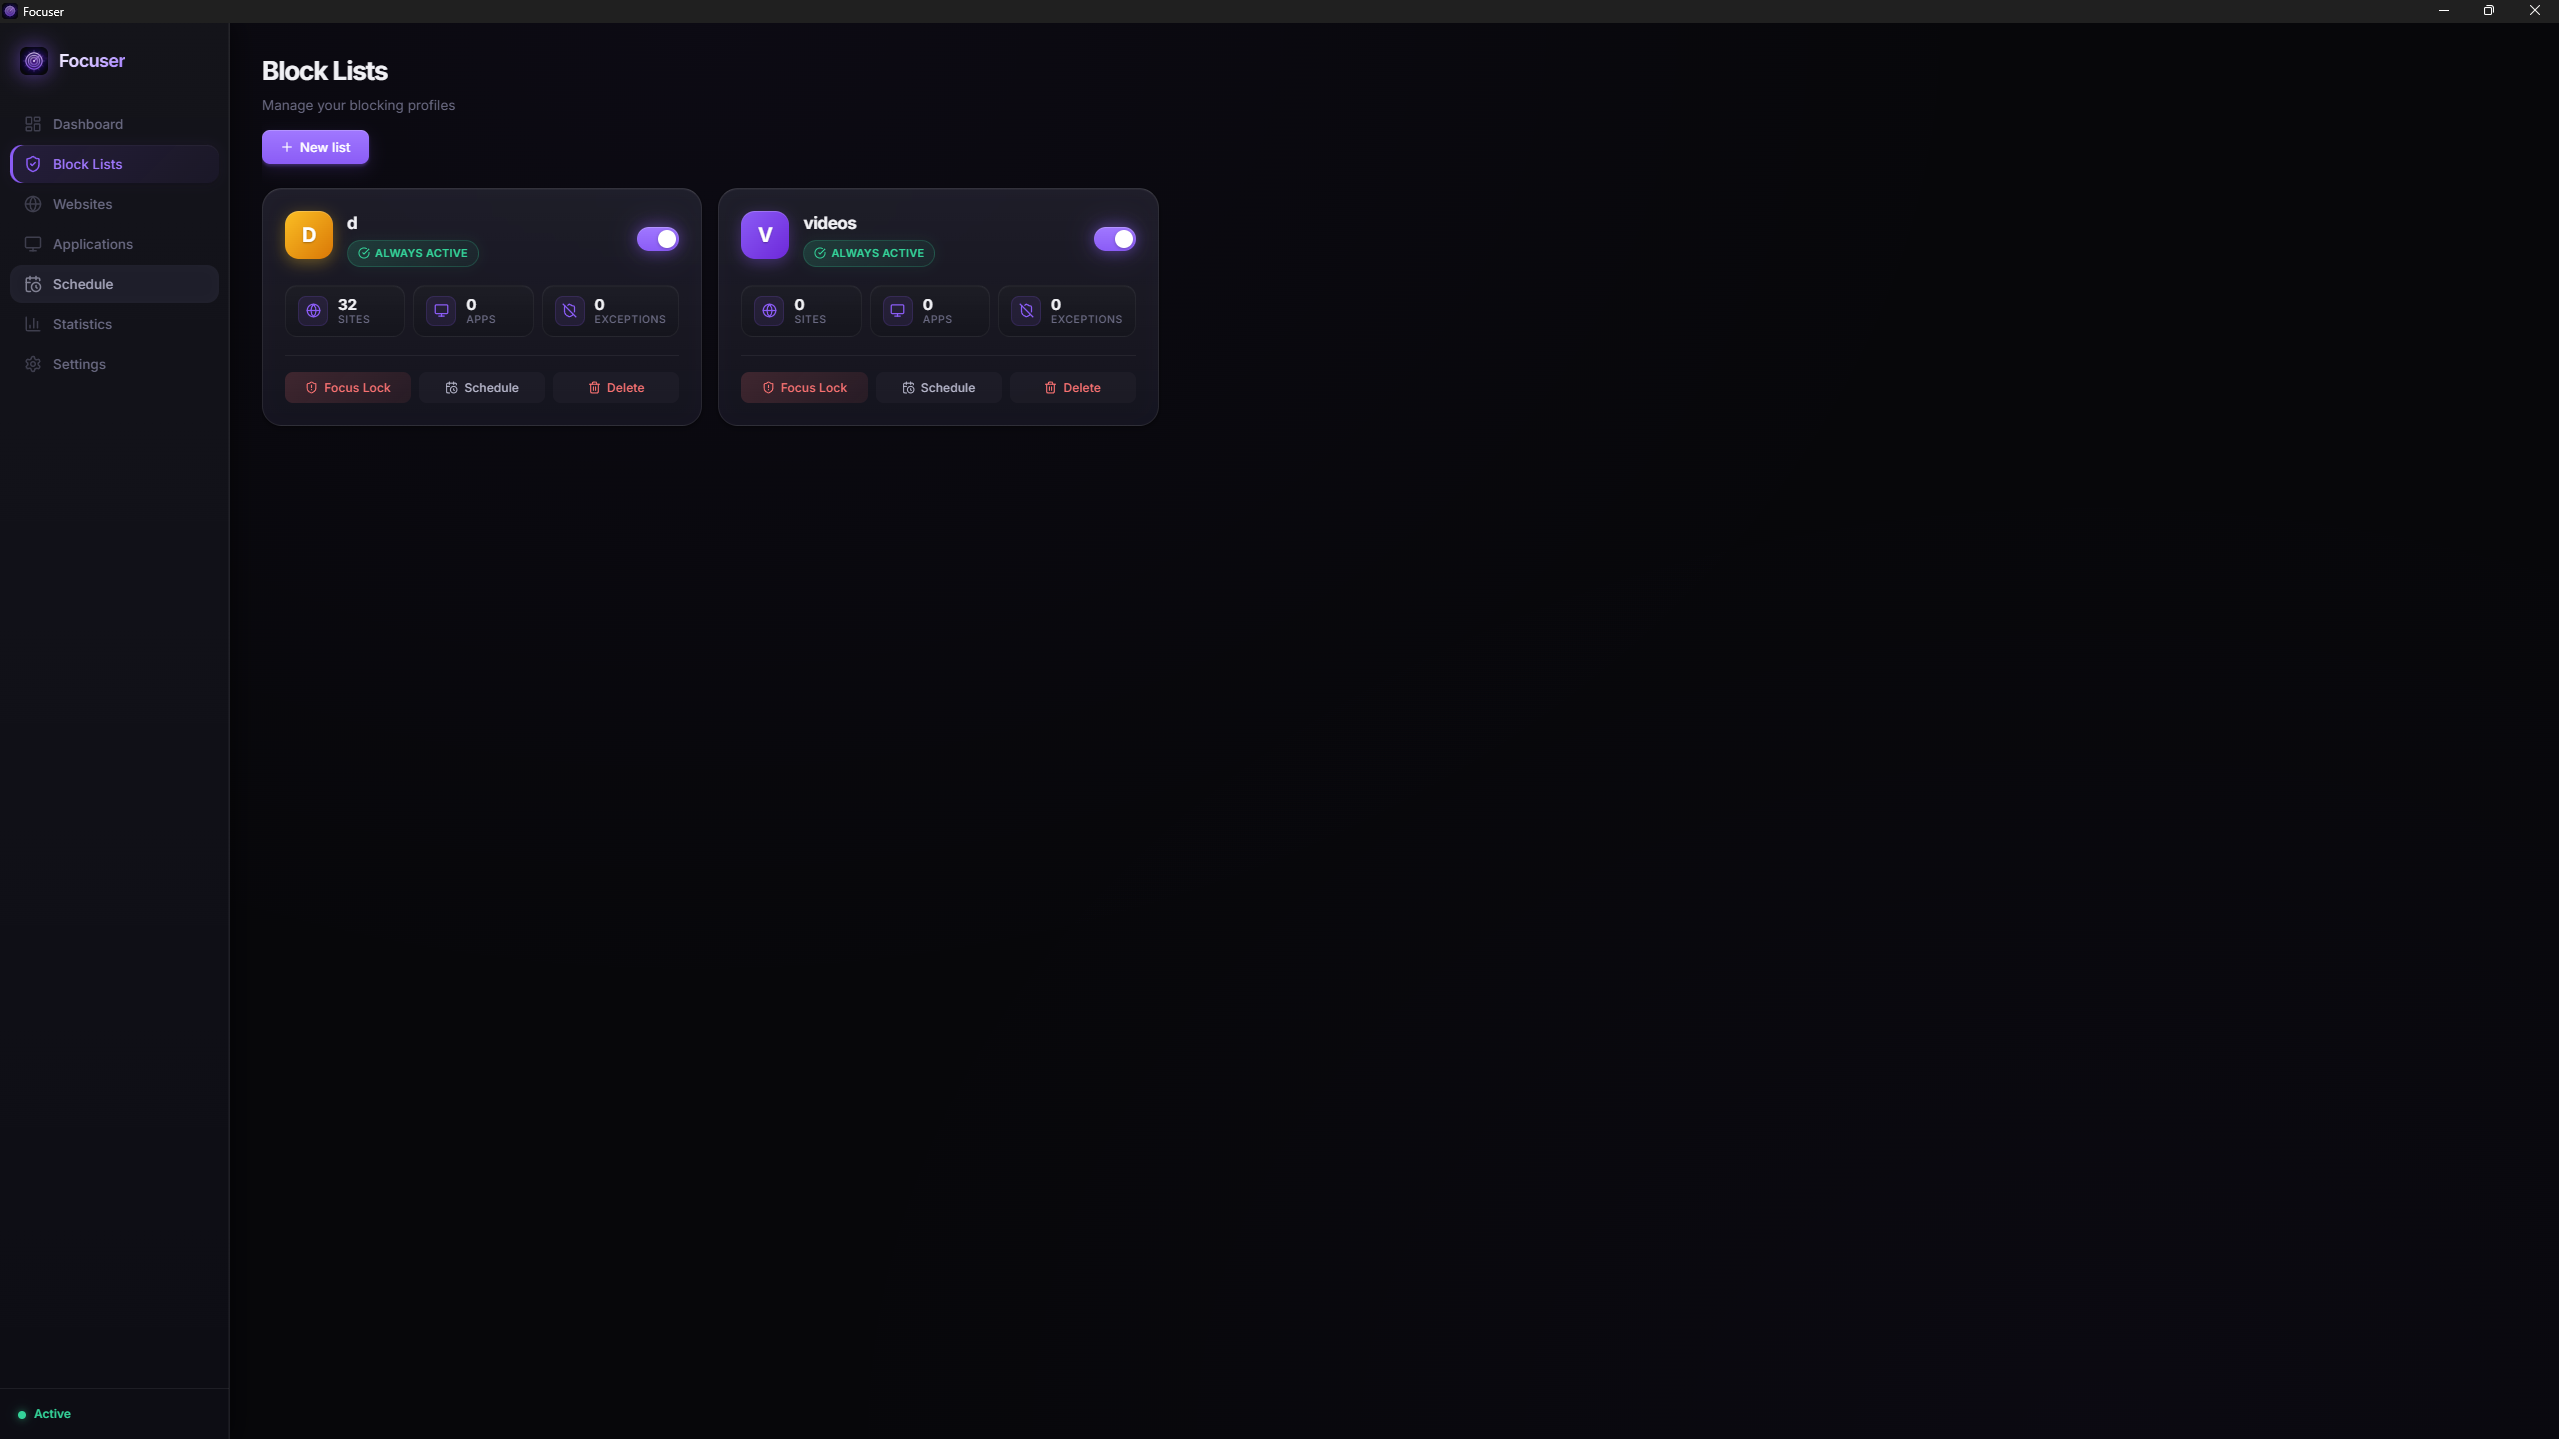
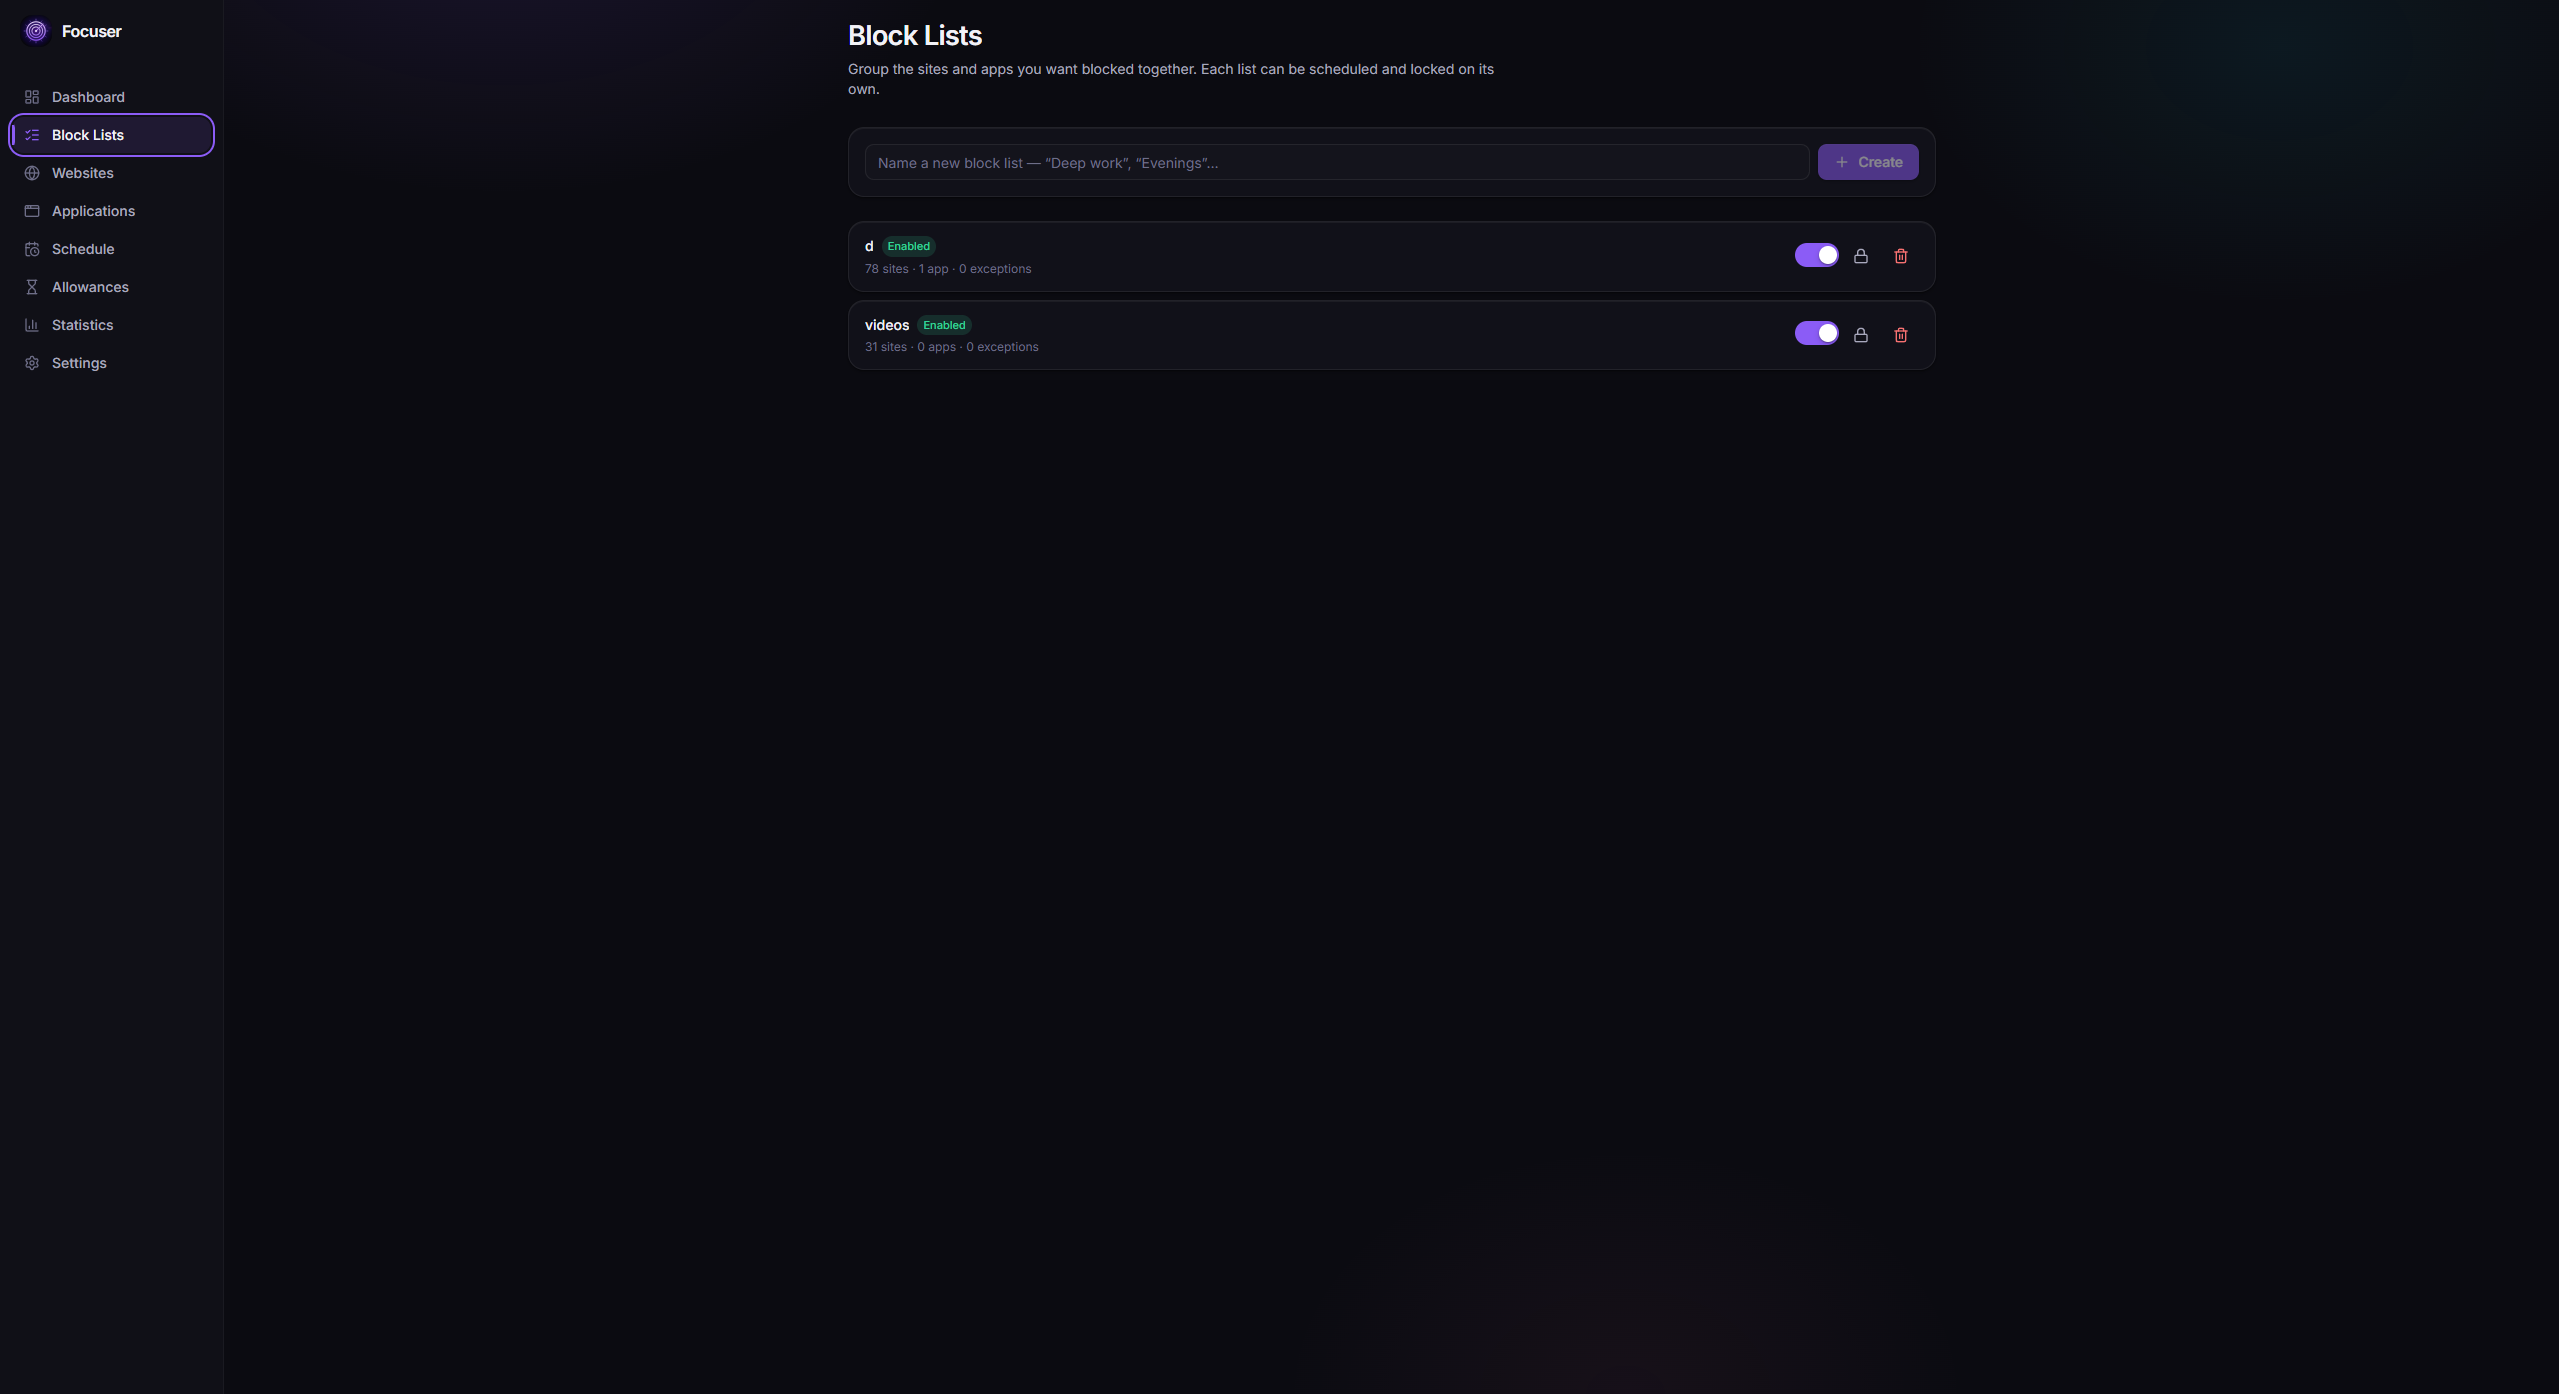
Replace the screenshots with captures of the current interface
The README still carried April captures and an apology admitting the interface
had been rebuilt since. Ten fresh ones replace them, named for what they show
rather than the timestamp the screenshot tool picked.

Two pages had never been pictured at all:

- Applications, which shows the real icon read out of each executable
- Allowances, the daily-budget alternative to an outright block

Two more are now shown in both of their states, because one capture of either
was misleading about what the page does:

- Schedule, always-on and the painted weekly grid
- Statistics, the Bars view and the Individual view

Renames worth noting: `schedule-24-7.png` became
`schedule-always-active.png` to match the label in the UI, and
`statistics.png` became `statistics-bars.png` now that there is more than
one view.

Each entry gained a sentence explaining what is being looked at, and the alt
text describes the image rather than repeating the page name.

diff --git a/README.md b/README.md
@@ -20,44 +20,64 @@ It sits quietly in your system tray, blocks the sites you told it to block, and 
 
 ## Screenshots
 
-> These are from an earlier build. The interface has since been rebuilt and looks rather different — fresh captures are on the way.
-
 <details>
-<summary><strong>Dashboard</strong> - Your blocking overview at a glance</summary>
+<summary><strong>Dashboard</strong> - What is blocked right now, and a Pomodoro timer to start a session</summary>
 <br>
-<img src="assets/screenshots/dashboard.png" alt="Dashboard" width="100%">
+<p>Four counters across the top, then the focus session: three dials for focus, short break and long break, how many cycles before the long one, and a bar showing what the whole session adds up to. Block lists can be flipped on and off without leaving the page.</p>
+<img src="assets/screenshots/dashboard.png" alt="Dashboard showing blocked attempts, a Pomodoro focus session and block list toggles" width="100%">
 </details>
 
 <details>
-<summary><strong>Block Lists</strong> - Organize blocks into groups with Focus Lock protection</summary>
+<summary><strong>Block Lists</strong> - Group sites and apps, then schedule and lock each group on its own</summary>
 <br>
-<img src="assets/screenshots/block-lists.png" alt="Block Lists" width="100%">
+<p>A list is the unit everything else hangs off. Each one has its own websites, applications, schedule and exceptions, and can be locked so you cannot casually undo it.</p>
+<img src="assets/screenshots/block-lists.png" alt="Block Lists page with two lists, each showing site and app counts" width="100%">
 </details>
 
 <details>
-<summary><strong>Websites</strong> - Domains, keywords, wildcards, pre-made lists, bulk import</summary>
+<summary><strong>Websites</strong> - Domains, keywords, wildcards, URL paths, or the whole internet</summary>
 <br>
-<img src="assets/screenshots/websites.png" alt="Websites" width="100%">
+<p>Pick the kind of rule and the hint underneath tells you what it will actually match. Starter lists sit right next to the add box: choose a category, hit Import, and the sites that are already there are skipped rather than duplicated.</p>
+<img src="assets/screenshots/websites.png" alt="Websites page with the rule-kind picker, the starter list importer and a list of blocked domains" width="100%">
 </details>
 
 <details>
-<summary><strong>Schedule</strong> - 24/7 blocking or a weekly time grid, your call</summary>
+<summary><strong>Applications</strong> - Block programs by executable, full path, or window title</summary>
 <br>
-<img src="assets/screenshots/schedule-24-7.png" alt="Schedule - Always Active" width="100%">
+<p>Blocked programs show their real icon, read out of the executable on your own machine. Nothing is fetched from the internet to do it.</p>
+<img src="assets/screenshots/applications.png" alt="Applications page showing a blocked executable with its real icon" width="100%">
+</details>
+
+<details>
+<summary><strong>Schedule</strong> - Always on, or painted onto a weekly grid</summary>
+<br>
+<p>Leave a list always active, or switch to the grid and drag to paint the hours you want it blocking. Presets cover work hours, evenings and weekends. The summary underneath adds up your week and warns you when there are unsaved changes.</p>
+<img src="assets/screenshots/schedule-always-active.png" alt="Schedule set to always active, showing 168 of 168 hours covered" width="100%">
 <br><br>
-<img src="assets/screenshots/schedule-weekly.png" alt="Schedule - Weekly Grid" width="100%">
+<img src="assets/screenshots/schedule-weekly.png" alt="Weekly schedule grid with work hours painted in, showing 76 of 168 hours covered" width="100%">
 </details>
 
 <details>
-<summary><strong>Statistics</strong> - See what you tried to access and how many times you got stopped</summary>
+<summary><strong>Allowances</strong> - A daily budget instead of an outright block</summary>
 <br>
-<img src="assets/screenshots/statistics.png" alt="Statistics" width="100%">
+<p>Give a site or app a number of minutes per day. When the budget runs out it is blocked for the rest of the day. Time can be counted only while the tab or window is actually focused, so a forgotten background tab does not drain it.</p>
+<img src="assets/screenshots/allowances.png" alt="Allowances page showing a 30 minute daily budget with 15 minutes used" width="100%">
 </details>
 
 <details>
-<summary><strong>Settings</strong> - Import/export configs, data retention, the usual</summary>
+<summary><strong>Statistics</strong> - What you tried to open, and how often you got stopped</summary>
 <br>
-<img src="assets/screenshots/settings.png" alt="Settings" width="100%">
+<p>Three views of the same data. <strong>Bars</strong> is attempts per day. <strong>Individual</strong> follows one site over time with its own share of the total. <strong>Detailed</strong> puts every site in one chart. Each site keeps the same colour every time, derived from a hash of its name.</p>
+<img src="assets/screenshots/statistics-bars.png" alt="Statistics in Bars view, with blocked attempts per day and a most-blocked table" width="100%">
+<br><br>
+<img src="assets/screenshots/statistics-individual.png" alt="Statistics in Individual view, tracking one site over the last seven days" width="100%">
+</details>
+
+<details>
+<summary><strong>Settings</strong> - Startup, browsers, extension status, and your data</summary>
+<br>
+<p>Shows which browsers have the extension connected and offers to install it where they do not. Export every block list to a file or replace them from one, choose how long statistics are kept, and delete everything if you want to start over.</p>
+<img src="assets/screenshots/settings.png" alt="Settings page showing startup, browser, extension and data options" width="100%">
 </details>
 
 ## What it does
